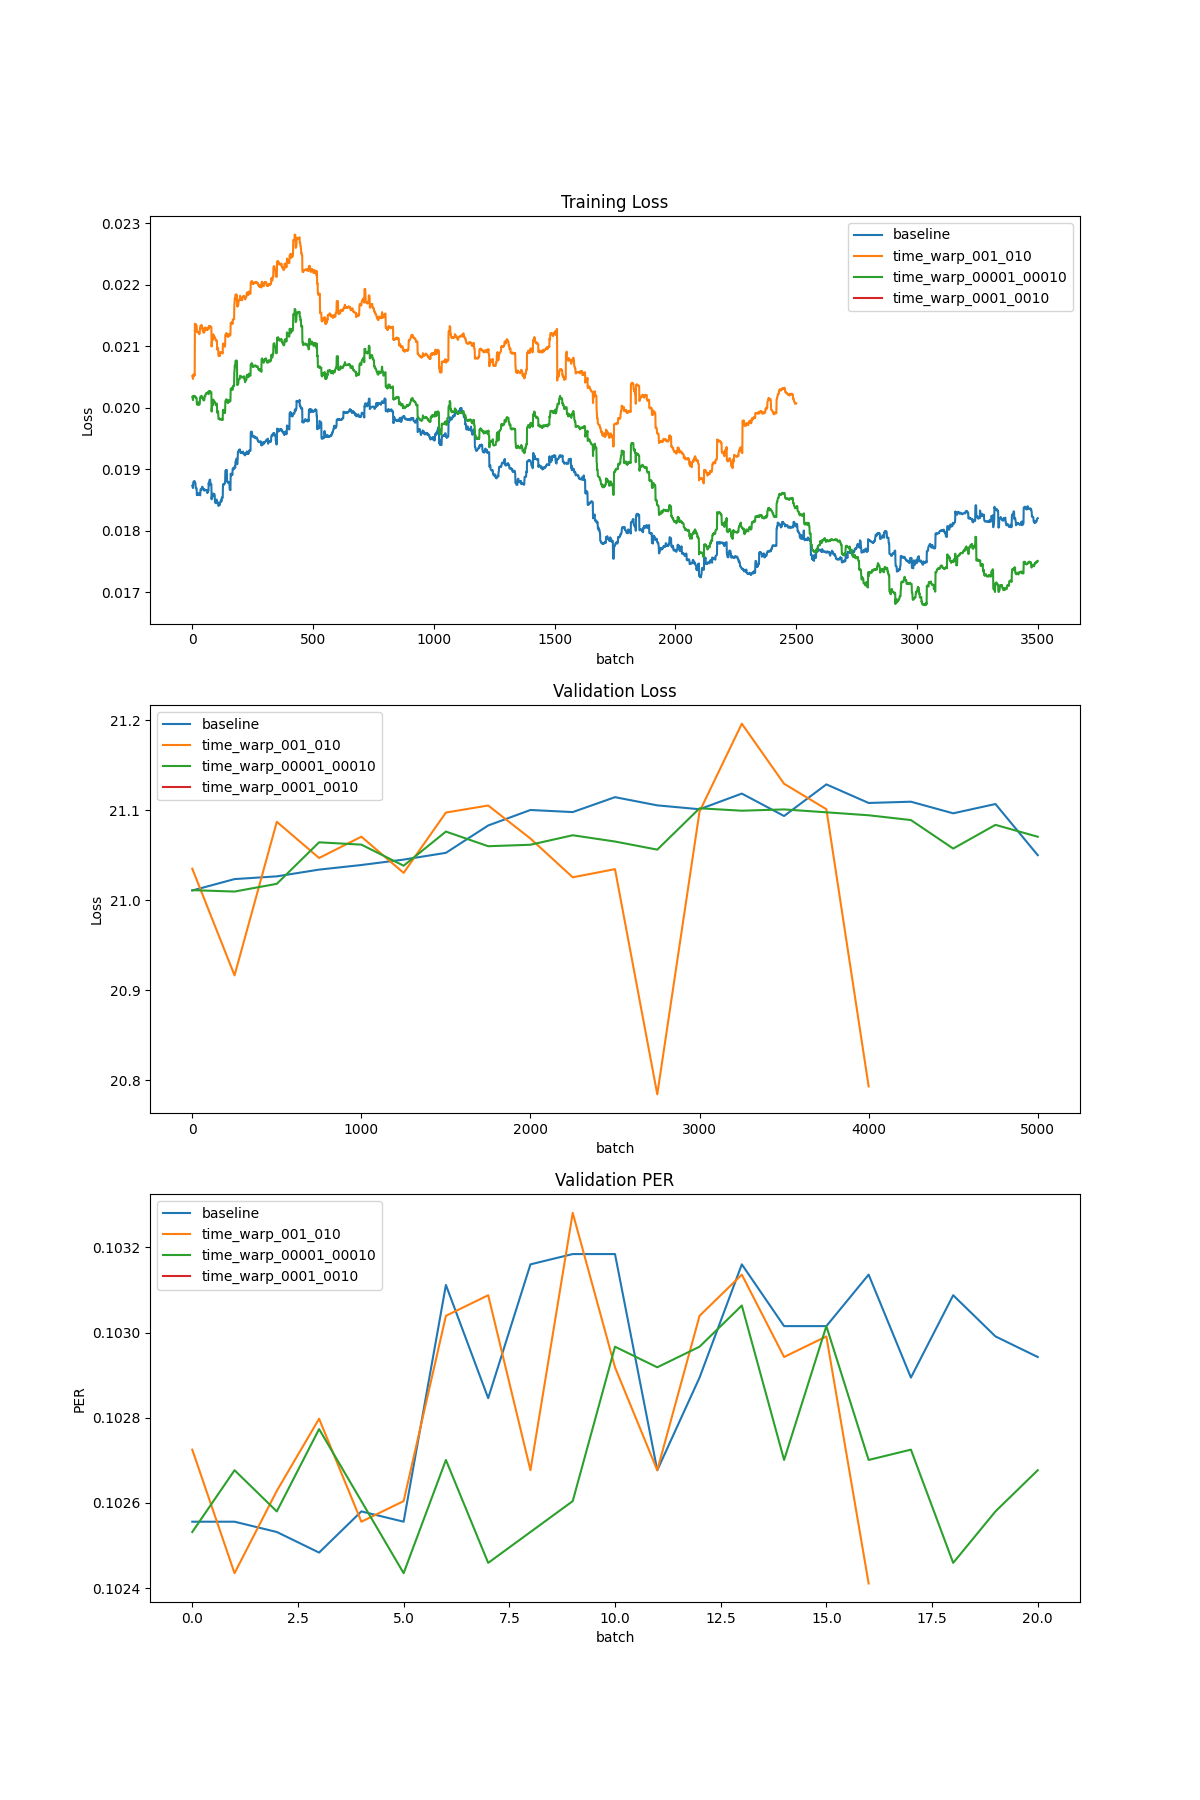
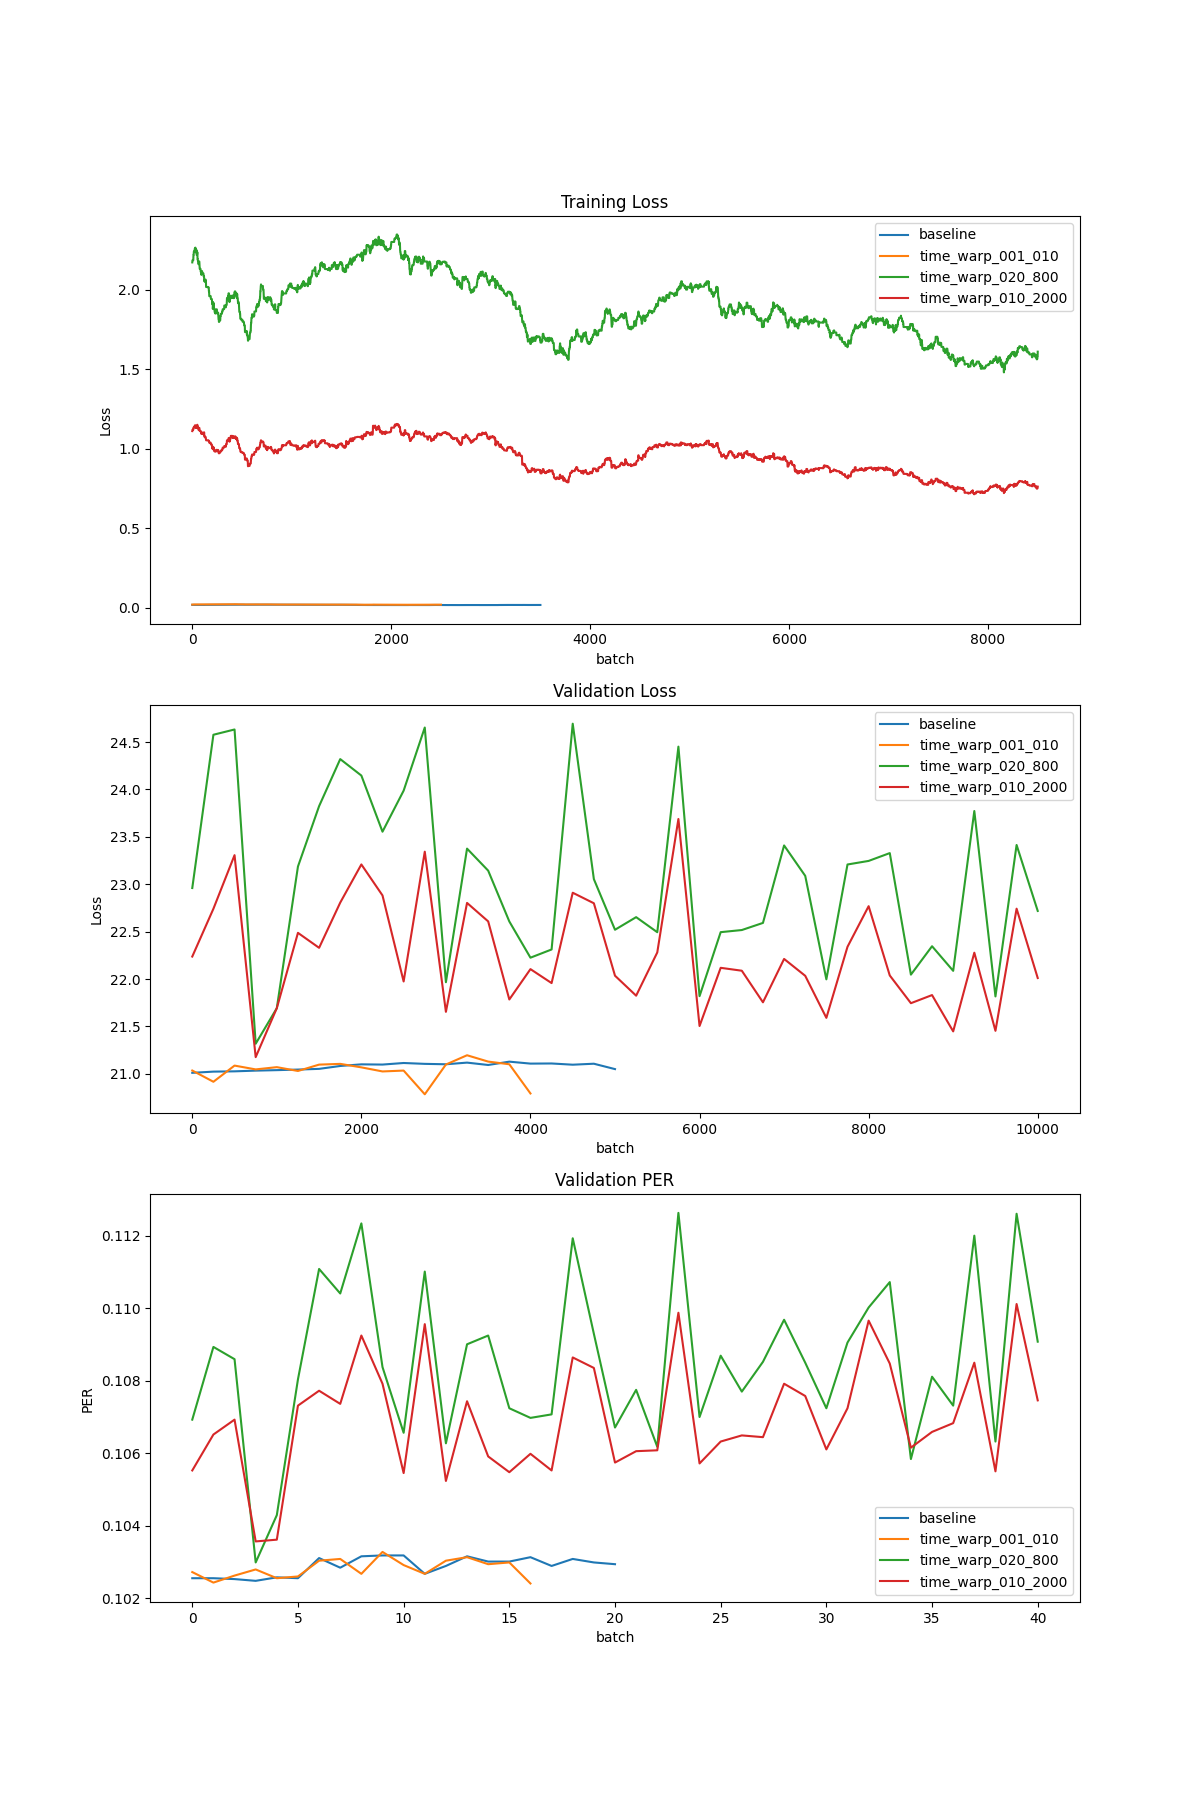
update

diff --git a/results.py b/results.py
@@ -9,7 +9,7 @@ def moving_average(a, n=3):
 
 
 general_path = 'data/model_weights'
-models = ['baseline','time_warp_001_010','time_warp_00001_00010','time_warp_0001_0010']
+models = ['baseline','time_warp_001_010','time_warp_020_800', 'time_warp_010_2000']
 
 results = {}
 for model in models:
